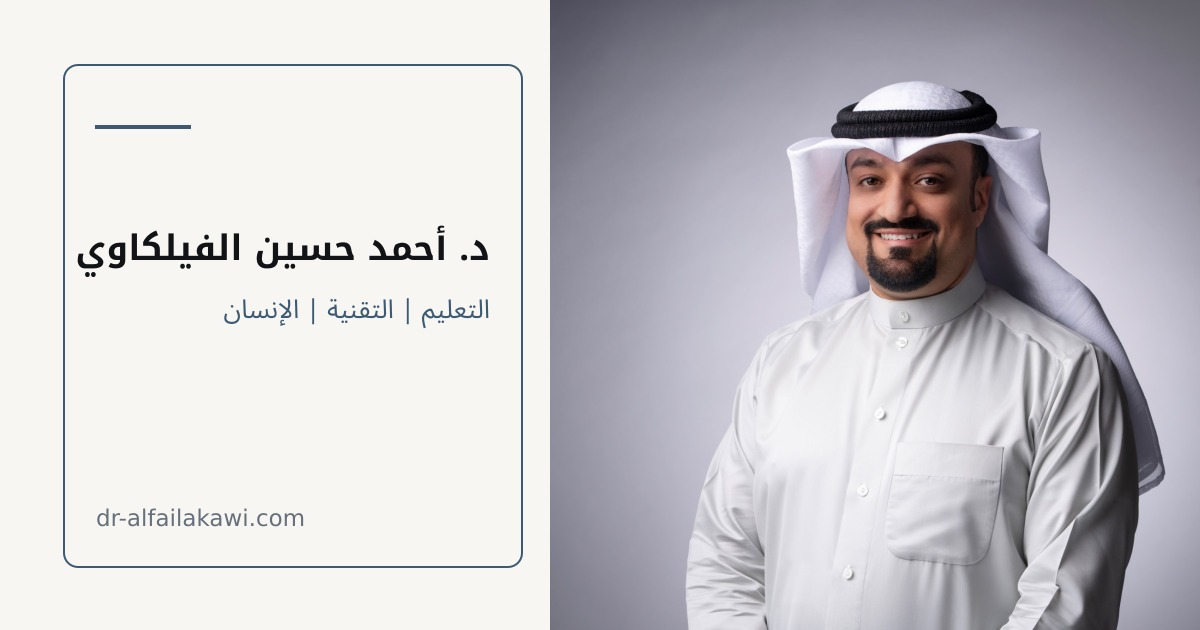
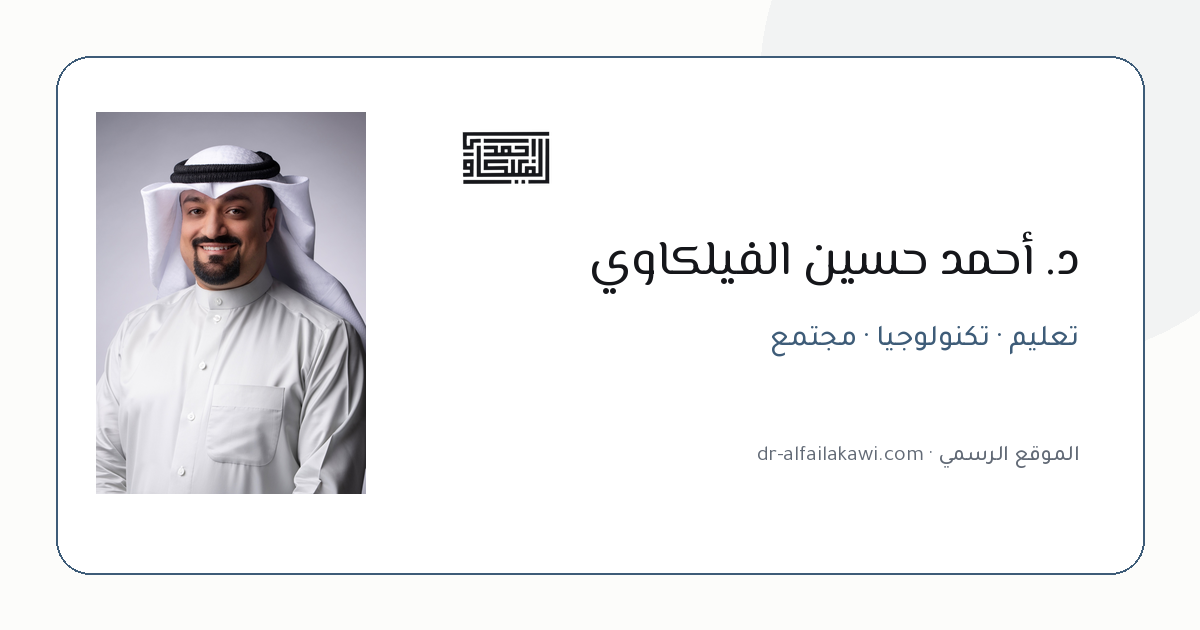
fix: هوية متسقة عند الحواف — المصطلح والأيقونة والإقلاع
**المصطلح** «تكنولوجيا» لا «تقنية» في صوت الموقع وحده (١٢ موضعاً):
بطاقة المشاركة، ووصف الموقع، وRSS، وصفحات المقالات والرسائل، وتسميات
الرادار. ولم يُمَسّ: كلام الدكتور (فهارس كتبه وعناوين مقالاته)، ولا
تصنيف `cat: 'تقنية'` (مفتاحٌ في الكود)، ولا المختارات («معهد ماساتشوستس
للتقنية» اسم مؤسسة)، ولا «تقني» بمعنى technical («الخدمات التقنية»،
«مشكلة تقنية») — فهذه دلالةٌ أخرى لا يشملها قرار الدار.

**بطاقات المشاركة** أُعيد توليد canonical.jpg وog.png بالمصطلح الصحيح،
واسم الدكتور بـEl Messiri بدل تغليظ Tajawal الاصطناعي (٧٠٠) الذي يحذّر
منه DESIGN.md. وog-dark.png كانت نسخةً طبق الأصل من الفاتحة — صارت ليلاً
حقيقياً بقماشة الهوية.

**الأيقونات** البيان كان يعلن favicon.png (١٢٨×١٢٨) بمقاسَي ١٩٢ و٥١٢،
ويعلّمه maskable — فيقصّه أندرويد دائرياً على الوجه. الآن يشير إلى
icon-192/icon-512 بمقاسيهما الحقيقيين، ومعهما icon-maskable-512 جديدة
تضع الصورة داخل منطقة أمانٍ ٨٠٪ بامتدادٍ مموّه فلا يُقصّ شيء.

**الإقلاع** ٢٨ شاشة `apple-touch-startup-image` (١٤ جهازاً × نهار/ليل)
بالشعار الكوفي على قماشة الهوية — كانت النسخة المثبّتة على iOS تفتح على
فراغ. و`theme-color` صار نسختين حسب الوضع بدل عاجيٍّ ثابتٍ فوق صفحةٍ
ليلية. وأرضية boot.css الليلية #111215 وُحّدت مع رمز الهوية #0F1115.

**DESIGN.md** كان يخالف الشيفرة في سلّم نصف القطر (١٢px موحّد ← ٨/١٢/١٤/١٦)
وفي قيم الظلال (نحو الضعف) وشفافية ظلال الليل (.75/.8 ← .42/.48). والفقرة ٩
كتلةٌ تُنسخ إلى أي وكيلٍ يولّد واجهة، فكان الملف يعيد زرع التصميم القديم
مع كل توليد.
[…]

diff --git a/index.html b/index.html
@@ -9,10 +9,40 @@
     <meta name="apple-mobile-web-app-title" content="الفيلكاوي" />
     <meta name="format-detection" content="telephone=no" />
     <link rel="icon" type="image/png" href="/favicon.png" />
-    <link rel="apple-touch-icon" sizes="180x180" href="/icon-192.png" />
-    <meta name="theme-color" content="#FCFCFA" />
+    <link rel="apple-touch-icon" sizes="192x192" href="/icon-192.png" />
+    <meta name="theme-color" content="#FCFCFA" media="(prefers-color-scheme: light)" />
+    <meta name="theme-color" content="#0F1115" media="(prefers-color-scheme: dark)" />
     <meta name="author" content="د. أحمد حسين الفيلكاوي" />
     <link rel="manifest" href="/manifest.webmanifest" />
+    <!-- شاشات إقلاع iOS — الشعار على قماشة الهوية، نهاراً وليلاً -->
+    <link rel="apple-touch-startup-image" href="/splash/iphone-se-light.png" media="(device-width: 375px) and (device-height: 667px) and (-webkit-device-pixel-ratio: 2) and (orientation: portrait)" />
+    <link rel="apple-touch-startup-image" href="/splash/iphone-se-dark.png" media="(device-width: 375px) and (device-height: 667px) and (-webkit-device-pixel-ratio: 2) and (orientation: portrait) and (prefers-color-scheme: dark)" />
+    <link rel="apple-touch-startup-image" href="/splash/iphone-8plus-light.png" media="(device-width: 414px) and (device-height: 736px) and (-webkit-device-pixel-ratio: 3) and (orientation: portrait)" />
+    <link rel="apple-touch-startup-image" href="/splash/iphone-8plus-dark.png" media="(device-width: 414px) and (device-height: 736px) and (-webkit-device-pixel-ratio: 3) and (orientation: portrait) and (prefers-color-scheme: dark)" />
+    <link rel="apple-touch-startup-image" href="/splash/iphone-x-light.png" media="(device-width: 375px) and (device-height: 812px) and (-webkit-device-pixel-ratio: 3) and (orientation: portrait)" />
+    <link rel="apple-touch-startup-image" href="/splash/iphone-x-dark.png" media="(device-width: 375px) and (device-height: 812px) and (-webkit-device-pixel-ratio: 3) and (orientation: portrait) and (prefers-color-scheme: dark)" />
+    <link rel="apple-touch-startup-image" href="/splash/iphone-xr-light.png" media="(device-width: 414px) and (device-height: 896px) and (-webkit-device-pixel-ratio: 2) and (orientation: portrait)" />
+    <link rel="apple-touch-startup-image" href="/splash/iphone-xr-dark.png" media="(device-width: 414px) and (device-height: 896px) and (-webkit-device-pixel-ratio: 2) and (orientation: portrait) and (prefers-color-scheme: dark)" />
+    <link rel="apple-touch-startup-image" href="/splash/iphone-xsmax-light.png" media="(device-width: 414px) and (device-height: 896px) and (-webkit-device-pixel-ratio: 3) and (orientation: portrait)" />
+    <link rel="apple-touch-startup-image" href="/splash/iphone-xsmax-dark.png" media="(device-width: 414px) and (device-height: 896px) and (-webkit-device-pixel-ratio: 3) and (orientation: portrait) and (prefers-color-scheme: dark)" />
+    <link rel="apple-touch-startup-image" href="/splash/iphone-13-light.png" media="(device-width: 390px) and (device-height: 844px) and (-webkit-device-pixel-ratio: 3) and (orientation: portrait)" />
+    <link rel="apple-touch-startup-image" href="/splash/iphone-13-dark.png" media="(device-width: 390px) and (device-height: 844px) and (-webkit-device-pixel-ratio: 3) and (orientation: portrait) and (prefers-color-scheme: dark)" />
+    <link rel="apple-touch-startup-image" href="/splash/iphone-14plus-light.png" media="(device-width: 428px) and (device-height: 926px) and (-webkit-device-pixel-ratio: 3) and (orientation: portrait)" />
+    <link rel="apple-touch-startup-image" href="/splash/iphone-14plus-dark.png" media="(device-width: 428px) and (device-height: 926px) and (-webkit-device-pixel-ratio: 3) and (orientation: portrait) and (prefers-color-scheme: dark)" />
+    <link rel="apple-touch-startup-image" href="/splash/iphone-15-light.png" media="(device-width: 393px) and (device-height: 852px) and (-webkit-device-pixel-ratio: 3) and (orientation: portrait)" />
+    <link rel="apple-touch-startup-image" href="/splash/iphone-15-dark.png" media="(device-width: 393px) and (device-height: 852px) and (-webkit-device-pixel-ratio: 3) and (orientation: portrait) and (prefers-color-scheme: dark)" />
+    <link rel="apple-touch-startup-image" href="/splash/iphone-15promax-light.png" media="(device-width: 430px) and (device-height: 932px) and (-webkit-device-pixel-ratio: 3) and (orientation: portrait)" />
+    <link rel="apple-touch-startup-image" href="/splash/iphone-15promax-dark.png" media="(device-width: 430px) and (device-height: 932px) and (-webkit-device-pixel-ratio: 3) and (orientation: portrait) and (prefers-color-scheme: dark)" />
+    <link rel="apple-touch-startup-image" href="/splash/iphone-16pro-light.png" media="(device-width: 402px) and (device-height: 874px) and (-webkit-device-pixel-ratio: 3) and (orientation: portrait)" />
+    <link rel="apple-touch-startup-image" href="/splash/iphone-16pro-dark.png" media="(device-width: 402px) and (device-height: 874px) and (-webkit-device-pixel-ratio: 3) and (orientation: portrait) and (prefers-color-scheme: dark)" />
+    <link rel="apple-touch-startup-image" href="/splash/ipad-light.png" media="(device-width: 768px) and (device-height: 1024px) and (-webkit-device-pixel-ratio: 2) and (orientation: portrait)" />
+    <link rel="apple-touch-startup-image" href="/splash/ipad-dark.png" media="(device-width: 768px) and (device-height: 1024px) and (-webkit-device-pixel-ratio: 2) and (orientation: portrait) and (prefers-color-scheme: dark)" />
+    <link rel="apple-touch-startup-image" href="/splash/ipad-air-light.png" media="(device-width: 820px) and (device-height: 1180px) and (-webkit-device-pixel-ratio: 2) and (orientation: portrait)" />
+    <link rel="apple-touch-startup-image" href="/splash/ipad-air-dark.png" media="(device-width: 820px) and (device-height: 1180px) and (-webkit-device-pixel-ratio: 2) and (orientation: portrait) and (prefers-color-scheme: dark)" />
+    <link rel="apple-touch-startup-image" href="/splash/ipad-pro11-light.png" media="(device-width: 834px) and (device-height: 1194px) and (-webkit-device-pixel-ratio: 2) and (orientation: portrait)" />
+    <link rel="apple-touch-startup-image" href="/splash/ipad-pro11-dark.png" media="(device-width: 834px) and (device-height: 1194px) and (-webkit-device-pixel-ratio: 2) and (orientation: portrait) and (prefers-color-scheme: dark)" />
+    <link rel="apple-touch-startup-image" href="/splash/ipad-pro13-light.png" media="(device-width: 1024px) and (device-height: 1366px) and (-webkit-device-pixel-ratio: 2) and (orientation: portrait)" />
+    <link rel="apple-touch-startup-image" href="/splash/ipad-pro13-dark.png" media="(device-width: 1024px) and (device-height: 1366px) and (-webkit-device-pixel-ratio: 2) and (orientation: portrait) and (prefers-color-scheme: dark)" />
     <link rel="alternate" type="application/rss+xml" title="مقالات د. أحمد حسين الفيلكاوي" href="/feed.xml" />
     <link rel="alternate" type="application/rss+xml" title="مقالات د. أحمد حسين الفيلكاوي — المسموعة (بودكاست)" href="/podcast.xml" />
     <meta property="og:title" content="د. أحمد حسين الفيلكاوي" />

diff --git a/src/components/home/ThresholdOverture.tsx b/src/components/home/ThresholdOverture.tsx
@@ -441,7 +441,7 @@ export default function ThresholdOverture({ articles = 0, books = 0, papers = 0,
                 ))}
               </div>
             )}
-            <span className="tho-mark">د. أحمد الفيلكاوي</span>
+            <span className="tho-mark"><img src="/logo.png" alt="د. أحمد الفيلكاوي" /></span>
           </header>
 
           {/* المسرح */}
@@ -591,7 +591,9 @@ const THEATRE_CSS = `
   transition:color .25s,border-color .25s,background .25s;
 }
 .tho-skip:hover{ color:var(--ivory); border-color:rgb(var(--glow)/.55); background:rgb(var(--glow)/.1); }
-.tho-mark{ flex:none; font-family:"El Messiri",serif; font-size:.74rem; color:var(--soft); opacity:.72; }
+/* المسرح ليلٌ ثابت، والشعار خطٌّ معتمٌ على شفافية: invert يجعله عاجياً على العتمة. */
+.tho-mark{ flex:none; display:flex; align-items:center; }
+.tho-mark img{ display:block; height:20px; width:auto; filter:invert(1); opacity:.78; }
 .tho-reel{ flex:1; display:flex; gap:4px; min-width:0; }
 .tho-reel-seg{
   flex:1; min-width:0; padding:9px 0; border:0; background:none; cursor:pointer;

diff --git a/src/data.ts b/src/data.ts
@@ -1104,6 +1104,6 @@ export const site = {
   title: 'د. أحمد حسين الفيلكاوي — أستاذ تكنولوجيا التعليم',
   // الوصف لا يحمل أرقاماً ثابتة؛ العدادات الحية تظهر داخل الواجهة من Firestore.
   description:
-    'الموقع الرسمي للدكتور أحمد حسين الفيلكاوي، أستاذ تكنولوجيا التعليم والذكاء الاصطناعي، ويضم مؤلفاته وأبحاثه ومقالاته الفكرية في التعليم والتقنية والمجتمع.',
+    'الموقع الرسمي للدكتور أحمد حسين الفيلكاوي، أستاذ تكنولوجيا التعليم والذكاء الاصطناعي، ويضم مؤلفاته وأبحاثه ومقالاته الفكرية في التعليم والتكنولوجيا والمجتمع.',
   ogImage: '/og/canonical.jpg',
 }

diff --git a/src/components/ui.tsx b/src/components/ui.tsx
@@ -1143,7 +1143,12 @@ export function Footer() {
             <ScheduleProjectLink label="الجدول" iconOnly className="site-footer__project" />
           </nav>
         </div>
-        <div className="site-footer__rights">© {year} {profile.fullName} · جميع الحقوق محفوظة</div>
+        <div className="site-footer__rights">
+          © {year} {profile.fullName} · جميع الحقوق محفوظة
+          {/* تحميلٌ كامل لا تنقّلٌ داخلي: «العتبة» تقرأ ?intro=1 عند التركيب وحده. */}
+          <span aria-hidden="true"> · </span>
+          <a href="/?intro=1" className="site-footer__text-link">شاهد تقديم الموقع</a>
+        </div>
       </div>
     </footer>
   )

diff --git a/src/pages/Radar.tsx b/src/pages/Radar.tsx
@@ -59,7 +59,7 @@ function weekOf(dayIso: string) {
 /**
  * صدى الكتب في خبر اليوم.
  *
- * الرادار يجلب ما يُنشر في العالم عن التعليم والتقنية. وكتب الدكتور التسعة
+ * الرادار يجلب ما يُنشر في العالم عن التعليم والتكنولوجيا. وكتب الدكتور التسعة
  * تناولت أكثر هذه الموضوعات قبل سنوات. فبدل أن يبقى الطرفان متجاورين بلا
  * صلة، نصل الخبر بما قاله هو — فتصير كتبه حيّةً مع الأحداث لا أرشيفاً.
  *

diff --git a/public/boot.css b/public/boot.css
@@ -1,4 +1,4 @@
 html, body { background: #FCFCFA; }
-html.dark, html.dark body { background: #111215; }
+html.dark, html.dark body { background: #0F1115; }
 html.js #seo-fallback { display: none !important; }
 #root:empty { min-height: 100svh; }

diff --git a/DESIGN.md b/DESIGN.md
@@ -82,12 +82,12 @@
 
 ## ٤) تنسيق المكوّنات
 
-**الزرّ الأساسي:** خلفية `accent`، نصّ `canvas`، زوايا 12px، ارتفاع مريح للمس.
+**الزرّ الأساسي:** خلفية `accent`، نصّ `canvas`، زوايا `xl` (12px)، ارتفاع مريح للمس.
 عند التمرير ينتقل إلى `accent-deep` بمنحنى `--E`.
 
 **الزرّ الشبحي:** بلا خلفية، حدّ `hair`، نصّ `ink`؛ يكتسب `wash` عند التمرير.
 
-**البطاقة:** خلفية `wash`، حدّ `hair`، زوايا 12px، **بلا ظلّ افتراضاً**.
+**البطاقة:** خلفية `wash`، حدّ `hair`، زوايا `xl`–`3xl` (12–16px)، **بلا ظلّ افتراضاً**.
 الظلّ (`--shadow-soft`) للطبقات العائمة وحدها: النوافذ والقوائم المنسدلة.
 
 **الحقل:** خلفية `canvas`، حدّ `hair`؛ عند التركيز يصير الحدّ `accent`.
@@ -101,8 +101,9 @@
 
 - **عرض القشرة:** `max-w-shell` = **1140px**، ثم `mx-auto`.
 - **الحواف:** `px-6` على الهاتف، `md:px-11` على الشاشات الأوسع.
-- **نصف القطر موحّد 12px** لكلّ الأحجام (`xl`/`2xl`/`3xl`) — قرارٌ مقصود:
-  لا تسلسل زوايا في هذا الموقع.
+- **سلّم نصف القطر أربع درجات متقاربة** (`tailwind.config.js`):
+  `lg` 8px · `xl` 12px · `2xl` 14px · `3xl` 16px. الدرجات قريبةٌ بعضها من بعض
+  عمداً كي تبقى اللغة واحدة: الحقل الصغير أدقّ، والسطح الكبير أهدأ.
 - الشبكات تنهار إلى عمودٍ واحد على الهاتف دائماً.
 
 ---
@@ -111,11 +112,12 @@
 
 | الرمز | القيمة | الاستعمال |
 |---|---|---|
-| `--shadow-soft` | `0 22px 44px -26px rgba(21,22,26,.4)` | النوافذ والطبقات العائمة |
-| `--shadow-deep` | `0 36px 64px -36px rgba(21,22,26,.42)` | أعلى طبقة وحدها |
+| `--shadow-soft` | `0 12px 28px -22px rgba(21,22,26,.24)` | النوافذ والطبقات العائمة |
+| `--shadow-deep` | `0 18px 36px -28px rgba(21,22,26,.30)` | أعلى طبقة وحدها |
 
 الظلال **منتشرة وخافتة وموجبة الإزاحة رأسياً** — ضوءٌ من أعلى، لا هالة.
-في الليل تعتمد على أسود صريح بشفافية أعلى (.75/.8) لأن الأرضية أصلاً داكنة.
+في الليل تعتمد على أسود صريح بشفافية أعلى (.42/.48) لأن الأرضية أصلاً داكنة:
+`--shadow-soft: 0 10px 24px -20px rgba(0,0,0,.42)` و`--shadow-deep: 0 16px 32px -26px rgba(0,0,0,.48)`.
 
 **سلّم الارتفاع:** `canvas` → `wash` → حدّ `hair` → ظلّ. لا تقفز إلى الظلّ
 قبل أن تستنفد ما قبله.
@@ -165,7 +167,7 @@
 السطح المرتفع #F4F5F3 · الحدّ rgba(21,22,26,.09)
 الليل: أرضية #0F1115 · حبر #ECEAE4 · تمييز #84A9CA
 العناوين "El Messiri" 600 · المتن "Tajawal" 300–500 (لا تتجاوز 500)
-نصف القطر 12px لكل شيء · العرض الأقصى 1140px · الحواف 24px / 44px
+نصف القطر 8/12/14/16px · العرض الأقصى 1140px · الحواف 24px / 44px
 الفصل بحدٍّ شعريّ لا بظلّ · منحنى الحركة cubic-bezier(.2,.7,.2,1)
 أرقام لاتينية · «تكنولوجيا» لا «تقنية» · بلا تدرّجات ولا ألوان صارخة
 ```
